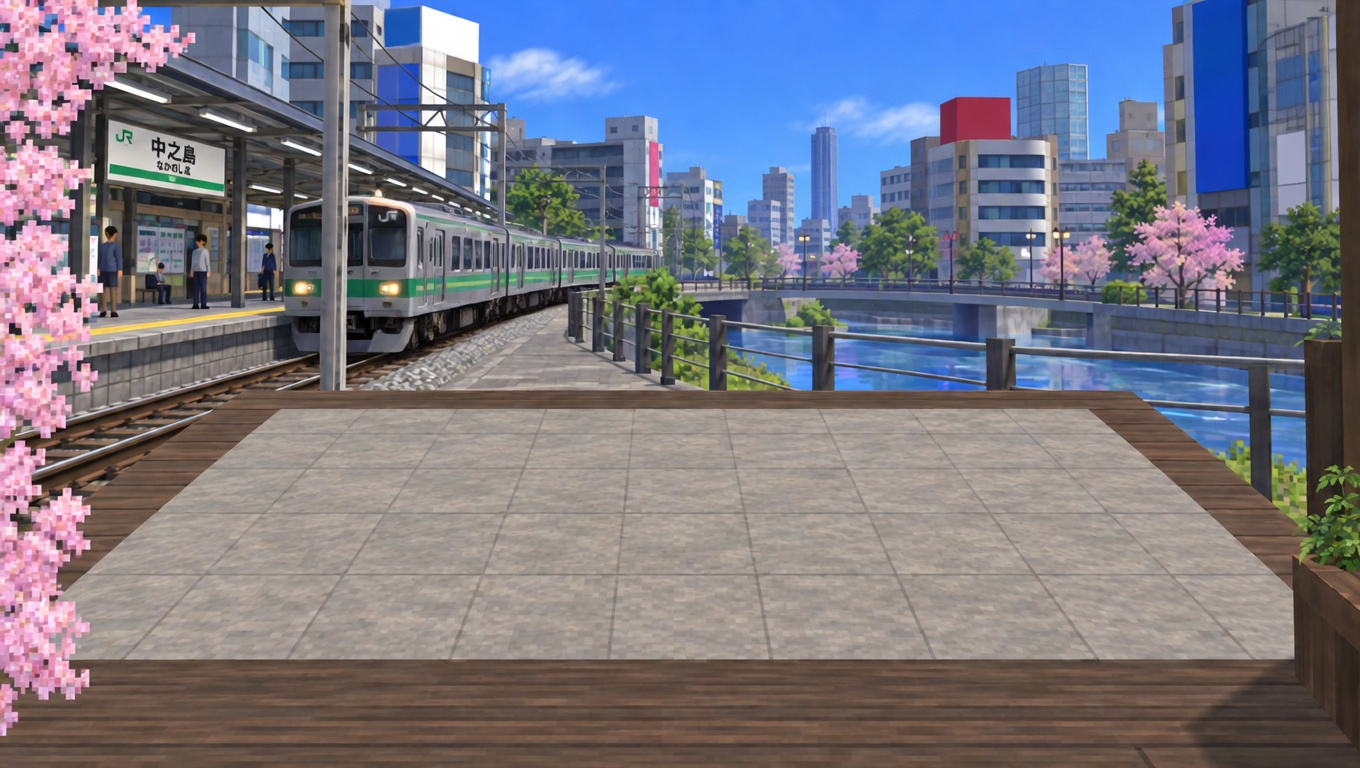
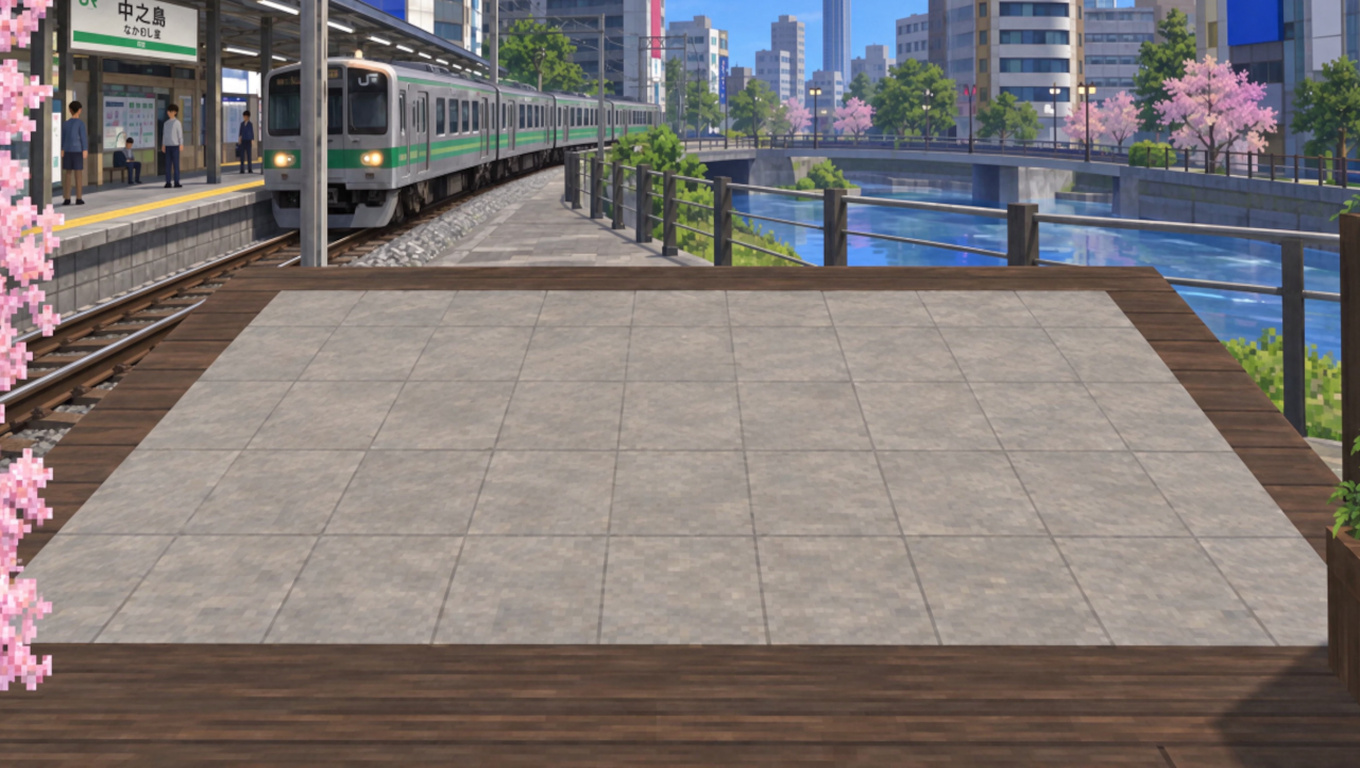
Replace the digital zoom with baked-table baseline framing
Revert the turn-sensitive crop. The scene is blitted 1:1 from the fixed 1360x768 world canvas, the HUD stays in screen space, and the supplied station-table art is the backdrop. The camera is refitted to the painted slots: 0.94 px mean / 1.59 px max over the 17 slot centres, with 68 px below the hand.

diff --git a/src/TableScene.cpp b/src/TableScene.cpp
@@ -13,12 +13,6 @@
 namespace {
 using TableLayout::Rect;
 
-// Digital zoom. The world canvas is cropped and magnified; the HUD is drawn
-// after the blit so controls are never cropped or resized by the zoom.
-constexpr float kZoomInset = 0.10f;  // 10% of each axis at full zoom
-constexpr float kZoomAnchorY = 0.85f; // bias the crop toward the near edge
-constexpr float kZoomSeconds = 0.2f;  // full transition duration
-
 void Vertex(float x, float y, float u, float v, float elevation) {
     const auto point = TableLayout::OnPlane(x, y, elevation);
     rlTexCoord2f(u, v);
@@ -63,8 +57,8 @@ struct ScreenMap {
     [[nodiscard]] int Font(float size) const { return W(size); }
 };
 
-// The HUD belongs to the screen, not the zoomed world: it is drawn after the
-// world blit, in the same unzoomed 1360x768 layout as the click rectangles.
+// The HUD belongs to the screen, not the world canvas: it is drawn after the
+// world blit, in the same 1360x768 design space as the click rectangles.
 void DrawHud(const TableGame& game, Rectangle destination, float scale) {
     const ScreenMap map{destination, scale};
     DrawRectangle(map.X(8), map.Y(8), map.W(500), map.H(102), Color{15, 20, 27, 220});
@@ -123,25 +117,6 @@ TableScene::~TableScene() {
     UnloadTexture(background_);
 }
 
-void TableScene::Update(const TableGame& game, float dt) {
-    const bool playerTurn = game.Rules().GetPhase() != Phase::ROUND_END &&
-                            game.Rules().CurrentPlayer() == Player::PLAYER;
-    const float step = std::max(0.0f, dt) / kZoomSeconds;
-    zoomPhase_ = std::clamp(zoomPhase_ + (playerTurn ? step : -step), 0.0f, 1.0f);
-    zoom_ = zoomPhase_ * zoomPhase_ * (3.0f - 2.0f * zoomPhase_); // smoothstep
-}
-
-Rectangle TableScene::SourceRect() const {
-    const float width = static_cast<float>(canvas_.texture.width);
-    const float height = static_cast<float>(canvas_.texture.height);
-    const float insetX = width * kZoomInset * zoom_;
-    const float insetY = height * kZoomInset * zoom_;
-    const float cropWidth = width - 2.0f * insetX;
-    const float cropHeight = height - 2.0f * insetY;
-    return {(width - cropWidth) * 0.5f, (height - cropHeight) * kZoomAnchorY,
-            cropWidth, cropHeight};
-}
-
 void TableScene::Draw(const TableGame& game) const {
     BeginTextureMode(canvas_);
     ClearBackground(BLACK);
@@ -163,12 +138,12 @@ void TableScene::Draw(const TableGame& game) const {
     const float height = TableLayout::ImageHeight * scale;
     const Rectangle destination{(GetScreenWidth() - width) / 2.0f, (GetScreenHeight() - height) / 2.0f,
                                 width, height};
-    const Rectangle source = SourceRect();
     BeginDrawing();
     ClearBackground(BLACK);
     // A render texture is vertically inverted in Raylib; a negative source
-    // height flips the cropped sub-rectangle as well.
-    DrawTexturePro(canvas_.texture, {source.x, source.y, source.width, -source.height},
+    // height flips it back. The whole canvas is blitted: no crop, no zoom.
+    DrawTexturePro(canvas_.texture, {0, 0, static_cast<float>(canvas_.texture.width),
+                                    -static_cast<float>(canvas_.texture.height)},
                    destination, {0, 0}, 0, WHITE);
     DrawHud(game, destination, scale);
     EndDrawing();

diff --git a/src/TableMain.cpp b/src/TableMain.cpp
@@ -17,12 +17,6 @@ TableLayout::Point2 CanvasPoint(Vector2 mouse) {
 bool In(TableLayout::Point2 p, float x, float y, float w, float h) {
     return p.x >= x && p.x <= x+w && p.y >= y && p.y <= y+h;
 }
-// Maps the unzoomed canvas point through the visible (cropped) world source.
-TableLayout::Point2 TablePoint(const TableScene& scene, TableLayout::Point2 canvas) {
-    const Rectangle source = scene.SourceRect();
-    return {source.x + canvas.x / TableLayout::ImageWidth * source.width,
-            source.y + canvas.y / TableLayout::ImageHeight * source.height};
-}
 TableLayout::Point2 PlanPoint(TableLayout::Point2 canvas) {
     auto p = TableLayout::Unproject(canvas);
     p.x = std::clamp(p.x, -200.0f, TableLayout::PlanWidth + 200.0f);
@@ -46,11 +40,10 @@ int main() {
         const std::filesystem::path appDir(GetApplicationDirectory());
         const std::string background = (appDir / "the-city.jpg").string();
         const std::string atlas = (appDir / "cards_atlas.png").string();
-        TableScene scene(background.c_str(), atlas.c_str());
+        const TableScene scene(background.c_str(), atlas.c_str());
         TableGame game;
         while (!WindowShouldClose()) {
-            const Vector2 mouse = GetMousePosition();
-            const auto canvas = CanvasPoint(mouse);
+            const auto canvas = CanvasPoint(GetMousePosition());
             if (IsMouseButtonPressed(MOUSE_BUTTON_RIGHT)) game.CancelDrag();
             if (IsMouseButtonPressed(MOUSE_BUTTON_LEFT)) {
                 if (game.Rules().GetPhase() == Phase::ROUND_END && In(canvas, 1000, 20, 310, 66)) {
@@ -62,13 +55,11 @@ int main() {
                 } else if (game.Rules().GetPhase() == Phase::AWAIT_DECISION && !game.Busy() &&
                            game.Rules().CurrentPlayer() == Player::PLAYER && In(canvas, 1165, 20, 145, 40)) {
                     game.Choose(Decision::SHOUBU);
-                } else game.PointerDown(PlanPoint(TablePoint(scene, canvas)));
+                } else game.PointerDown(PlanPoint(canvas));
             }
-            if (game.Dragging()) game.PointerMove(PlanPoint(TablePoint(scene, canvas)));
-            if (IsMouseButtonReleased(MOUSE_BUTTON_LEFT)) game.PointerUp(PlanPoint(TablePoint(scene, canvas)));
-            const float dt = std::min(GetFrameTime(), 0.1f);
-            game.Update(dt);
-            scene.Update(game, dt);
+            if (game.Dragging()) game.PointerMove(PlanPoint(canvas));
+            if (IsMouseButtonReleased(MOUSE_BUTTON_LEFT)) game.PointerUp(PlanPoint(canvas));
+            game.Update(std::min(GetFrameTime(), 0.1f));
             scene.Draw(game);
         }
     } catch (const std::exception& error) {

diff --git a/src/TableLayout.hpp b/src/TableLayout.hpp
@@ -18,13 +18,15 @@ struct Rect { float x, y, width, height; };
 struct Point3 { float x, y, z; };
 struct Point2 { float x, y; };
 
-// Camera and table plane calibrated against the supplied perspective mockup.
-inline constexpr float CameraHeight = 1.0f;
-inline constexpr float PitchRadians = 0.370f;
+// Camera and table plane calibrated against the baked table backdrop. The
+// height, pitch, and plane bounds are a perspective fit to the eight hand and
+// eight opponent card slots plus the stock in the supplied table image.
+inline constexpr float CameraHeight = 0.992949f;
+inline constexpr float PitchRadians = 0.528482f;
 inline constexpr float FovDegrees = 45.0f;
-inline constexpr float PlaneHalfWidth = 0.93f;
-inline constexpr float NearDepth = 1.09f;
-inline constexpr float FarDepth = 2.51f;
+inline constexpr float PlaneHalfWidth = 0.759738f;
+inline constexpr float NearDepth = 0.836865f;
+inline constexpr float FarDepth = 2.256865f;
 inline constexpr float CardElevation = 0.002f;
 
 [[nodiscard]] inline Point3 OnPlane(float x, float y, float elevation = 0.0f) {
@@ -67,7 +69,7 @@ inline constexpr float CardElevation = 0.002f;
 }
 
 inline constexpr auto OpponentHand = MakeHand(185.0f, 12.0f, 62.0f, 56.0f, 91.0f);
-inline constexpr auto PlayerHand = MakeHand(49.0f, 567.0f, 96.0f, 88.0f, 142.0f);
+inline constexpr auto PlayerHand = MakeHand(40.218f, 567.0f, 96.0f, 88.0f, 142.0f);
 inline constexpr Rect Stock{49.0f, 261.0f, 76.0f, 126.0f};
 
 // The first sixteen field positions use two rows of eight as in the plan.

diff --git a/tests/test_table.cpp b/tests/test_table.cpp
@@ -37,9 +37,9 @@ void TestGeometry() {
     const auto b = Project(OnPlane(PlanWidth, 0));
     const auto c = Project(OnPlane(0, PlanHeight));
     const auto d = Project(OnPlane(PlanWidth, PlanHeight));
-    Check(Near(a.x, 361, 2) && Near(a.y, 392, 2) && Near(b.x, 999, 2) &&
-          Near(c.x, 54, 2) && Near(c.y, 746, 2) && Near(d.x, 1306, 2),
-          "Plane projection does not align with the mockup");
+    Check(Near(a.x, 392.5f, 2) && Near(a.y, 277.9f, 2) && Near(b.x, 967.5f, 2) &&
+          Near(c.x, 104.3f, 2) && Near(c.y, 714.0f, 2) && Near(d.x, 1255.7f, 2),
+          "Plane projection does not align with the baked table");
     const auto within = [](Rect r) { return r.x >= 0 && r.y >= 0 && r.x + r.width <= PlanWidth &&
                                            r.y + r.height <= PlanHeight; };
     Check(MatchRounds == 3 && within(Stock), "Wrong rounds or stock position");

diff --git a/src/TableScene.hpp b/src/TableScene.hpp
@@ -14,17 +14,12 @@ public:
     TableScene(TableScene&&) = delete;
     TableScene& operator=(TableScene&&) = delete;
 
-    // Eases the digital zoom toward the player's turn. Call once per frame
-    // before Draw().
-    void Update(const TableGame& game, float dt);
     void Draw(const TableGame& game) const;
-    // Visible sub-rectangle of the world canvas, in canvas pixels.
-    [[nodiscard]] Rectangle SourceRect() const;
 
 private:
     Texture2D background_{};
     Texture2D atlas_{};
+    // Fixed 1360x768 world canvas. It only provides aspect-preserving
+    // letterboxing when the window is resized; it is never cropped or zoomed.
     RenderTexture2D canvas_{};
-    float zoom_ = 0.0f;      // 0 = whole table, 1 = fully cropped
-    float zoomPhase_ = 0.0f; // eased 0..1 progress behind zoom_
 };

diff --git a/README.md b/README.md
@@ -37,9 +37,9 @@ When Python 3 is available, CTest also checks the black frame pixels on every ca
 
 Drag a hand card onto a same-month field card; when two cards match, drop onto the desired one. If there is no match, drop it in the field. A far or invalid drop glides back to the hand; right-click cancels a drag. Matching accepts overlap or an edge gap of up to 10 pixels in the 840×720 table-plan coordinate system, with Xeno-koi's protection against mostly overlapping a non-matching card. After a hand play, the stock card flips and resolves; click the desired field card if the stock has two possible matches. When a yaku appears or grows, use the **Koi-Koi** or **Shobu** button. Matches pause briefly for a 50 ms hit freeze before cards move to the capture pile.
 
-The supplied city image remains the fixed background. Cards occupy a horizontal 3D plane under a perspective camera; opponent cards and the stock have solid-black backs, while card faces use the complete original atlas cells. Resizing preserves the scene's aspect ratio. On the player's turn the table is magnified by a bottom-biased crop of the rendered canvas, eased over 200 ms; the HUD stays at its native size and the near hand stays in frame. A crowded field uses a compact layout. Close the window or press Escape to exit.
+The baked station-and-table image is the fixed background. Cards occupy a horizontal 3D plane under a perspective camera calibrated to the painted table; opponent cards and the stock have solid-black backs, while card faces use the complete original atlas cells. The scene renders 1:1 at 1360×768 and resizing preserves its aspect ratio inside a letterbox. The HUD and action buttons are drawn in screen space, never into the scaled canvas. There is no dynamic zoom or turn-sensitive camera movement, so the baseline framing stays fixed; the full eight-card hand remains above the bottom edge. A crowded field uses a compact layout. Close the window or press Escape to exit.
 
-The CPU currently uses a simple first-available-match strategy and always banks a yaku, rather than Xeno-koi's full AI. The 3D camera itself never moves; the zoom is applied when the finished canvas is blitted, and mouse picking is remapped through the crop.
+The CPU currently uses a simple first-available-match strategy and always banks a yaku, rather than Xeno-koi's full AI.
 
 The separate `denshadekoi_inspector` uses columns for months 1–12 and rows for card indices 0–3. Hover a card to see its identifiers; the white outline is drawn outside the card so its original black frame remains visible.
 
